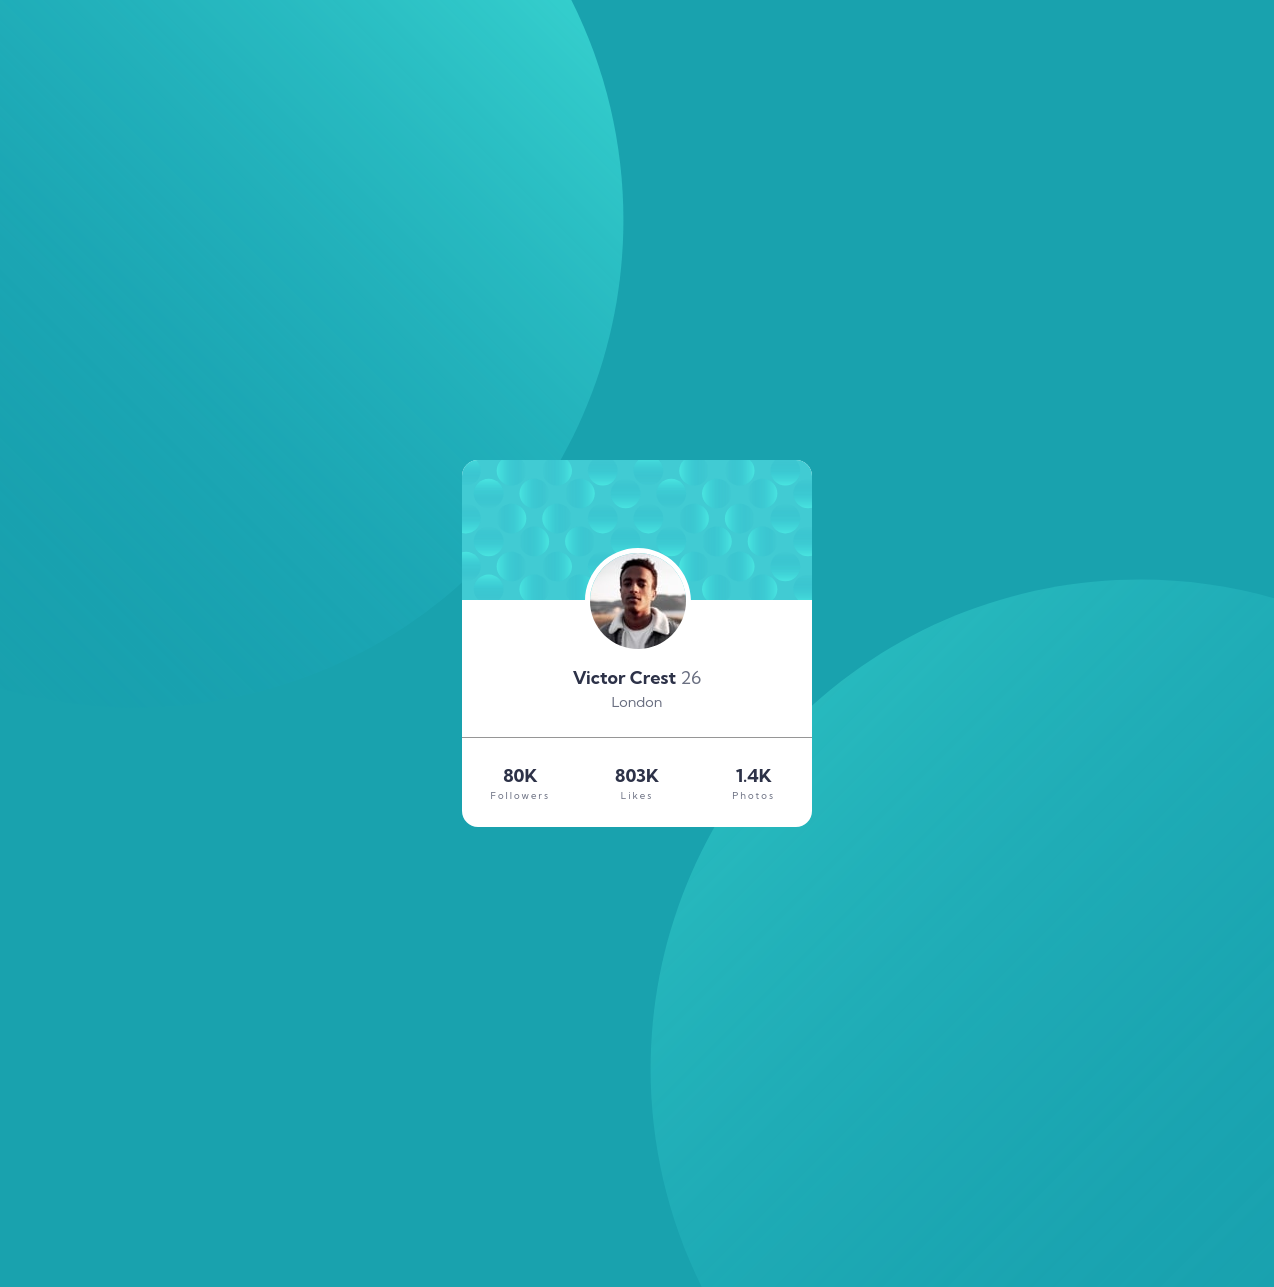
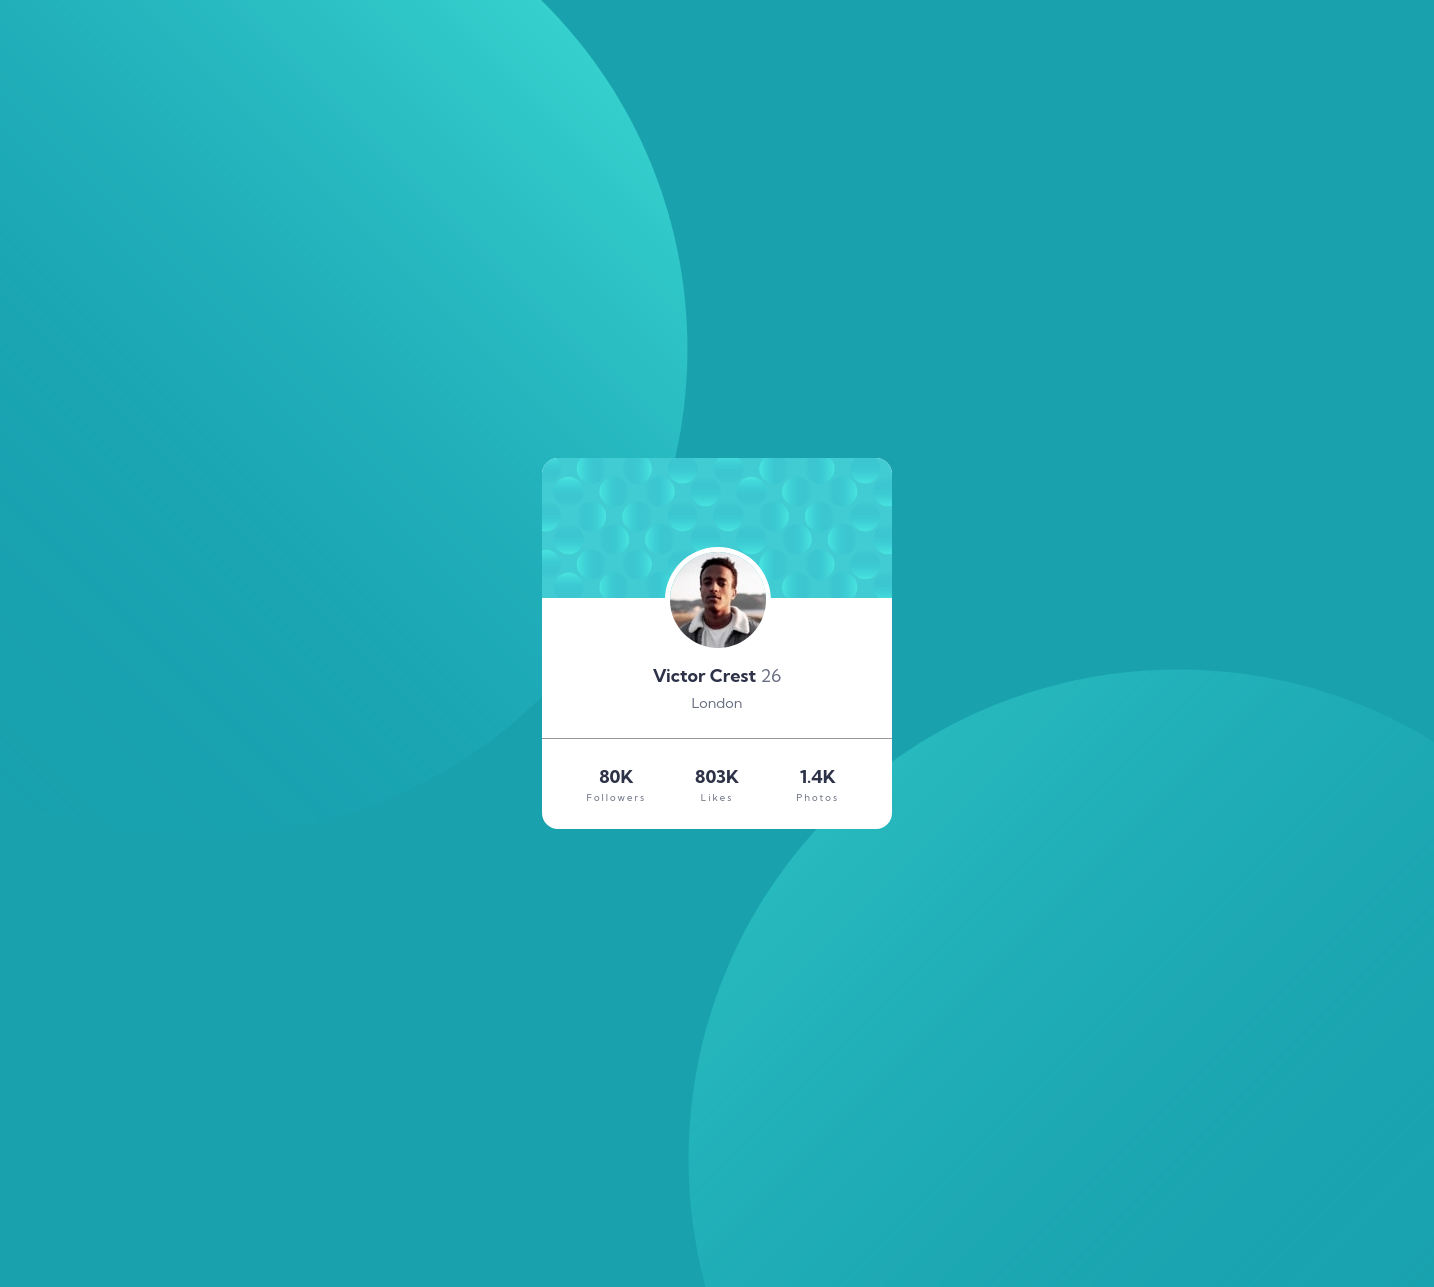
Updated background image based on feedback. Added h1 tag which is shown on screen readers

diff --git a/style.css b/style.css
@@ -17,7 +17,9 @@ body {
     min-height: 100vh;
     font-family: var(--ff-base);
     font-size: var(--fs-base);
-    background: url(images/bg-pattern-top.svg) right 51vw bottom 45vh, url(images/bg-pattern-bottom.svg) left 51vw top 45vh;
+    background: url(./images/bg-pattern-top.svg), url(./images/bg-pattern-bottom.svg);
+    background-position: right 52vw bottom 35vh, left 48vw top 52vh;
+    /* background: url(images/bg-pattern-top.svg) right 51vw bottom 45vh, url(images/bg-pattern-bottom.svg) left 51vw top 45vh; */
     background-color: var(--clr-primary-dark-cyan);
     background-repeat: no-repeat;
     display: grid;
@@ -73,4 +75,13 @@ main {
     position: absolute;
     left: 35%;
     top: 24%;
+}
+
+.sr-only {
+    position: absolute ;
+    left: -10000px;
+    width: 1px;
+    height: 1px;
+    top: auto;
+    overflow: hidden;
 }

diff --git a/index.html b/index.html
@@ -14,6 +14,7 @@
 </head>
 <body>
   <main>
+    <h1 class="sr-only">Profile Card</h1>
     <picture class="card-bg-top">
       <img src="images/bg-pattern-card.svg" alt="Card top background">
     </picture>
